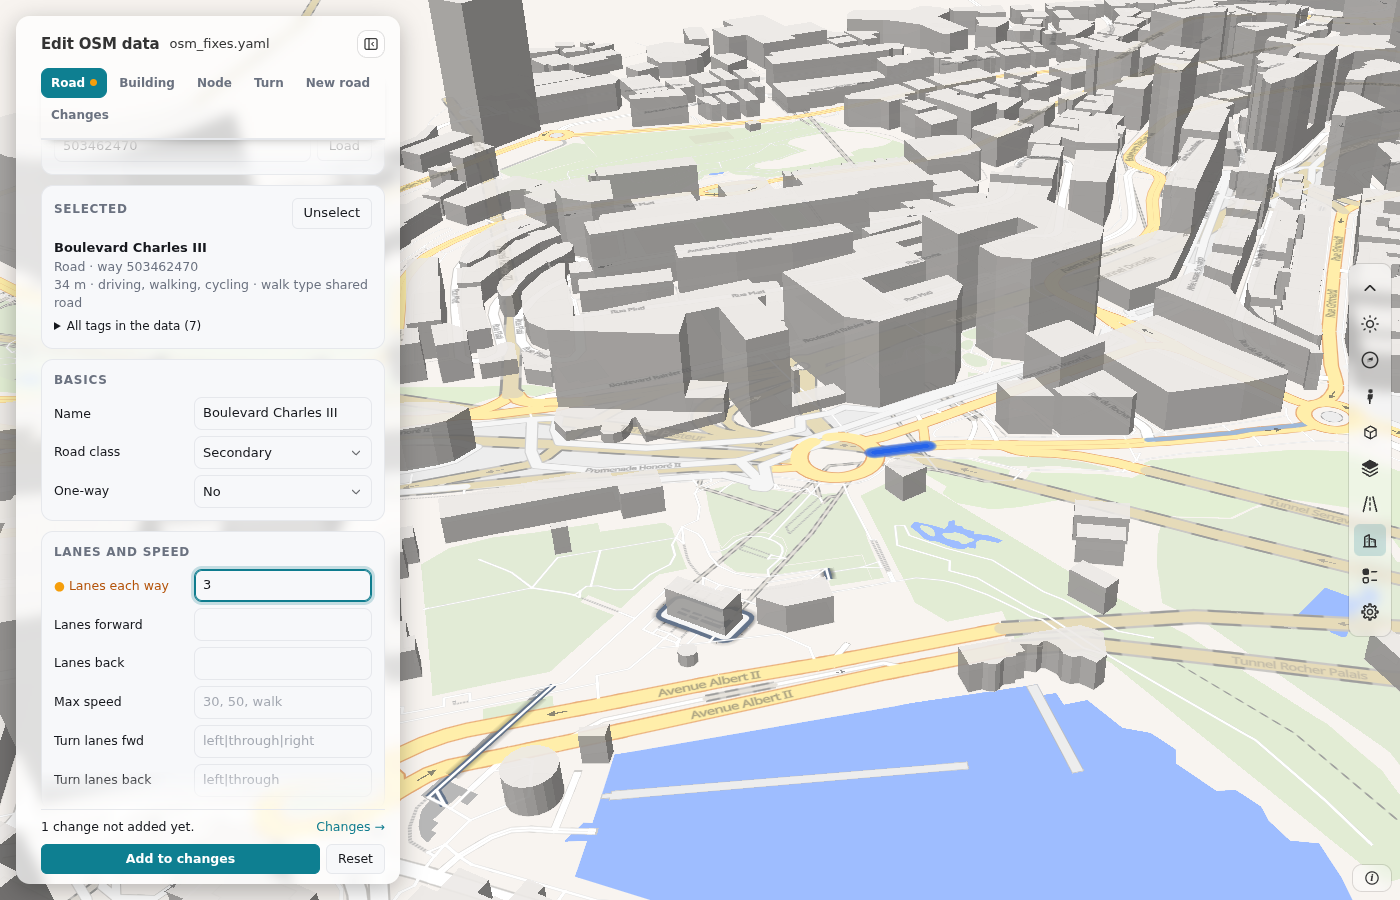
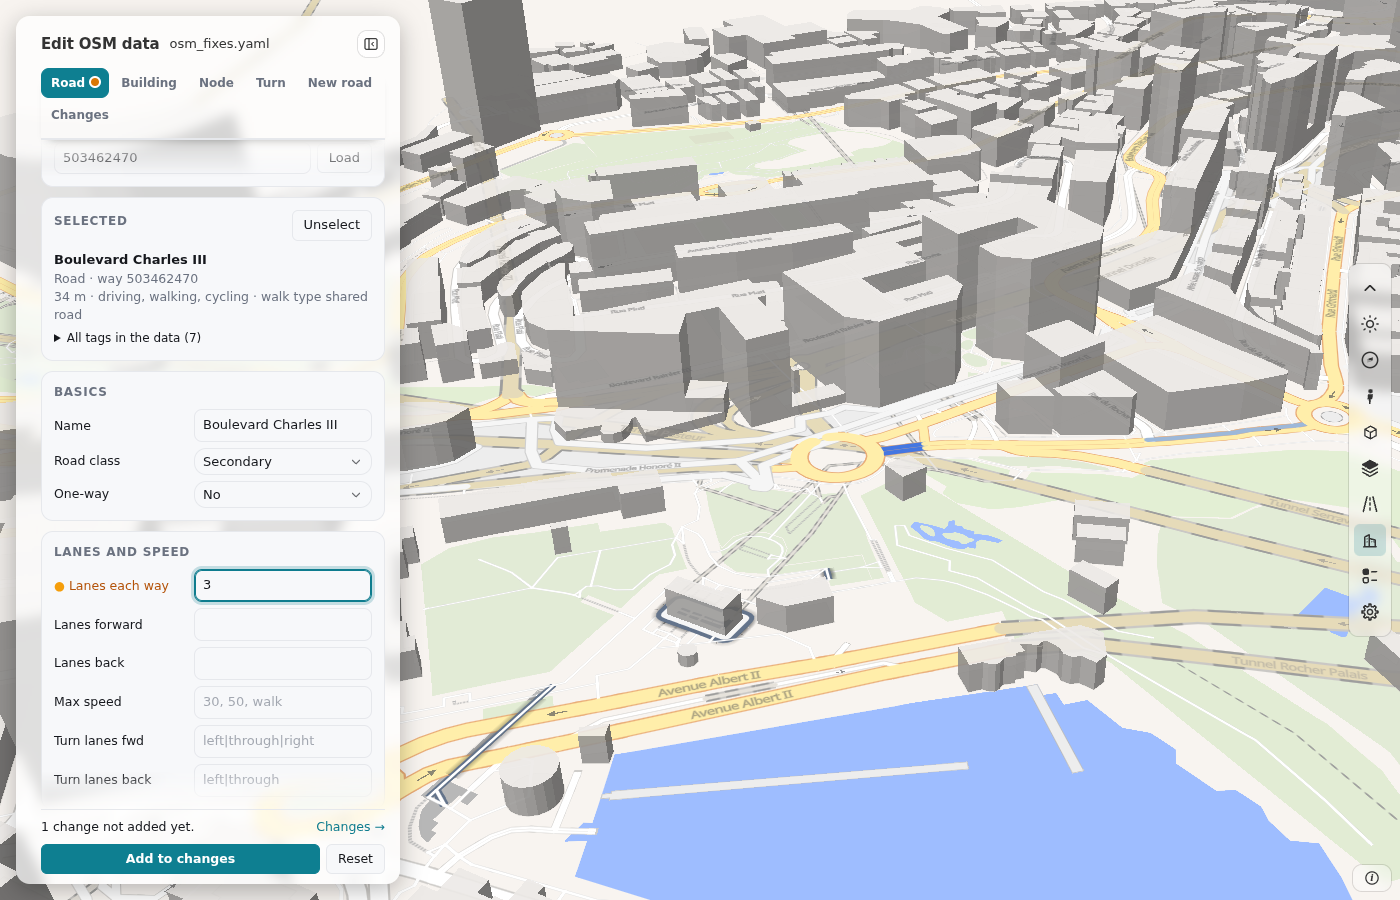
Fixes editor: roadstyle's own parts in place of the editor's CSS
roadstyle main has the parts that the editor drew itself. The editor uses them
and its copies are deleted:

- the count of changes on the tab: rs-badge (.badge went)
- the "not saved" dot on a tab: rs-unsaved (.dot went)
- the line under a field: rs-field-msg, warn for a warning (.gerr went); the
  red edge of a field comes from aria-invalid (.invalid went)
- the border of a select box in a frame, and a disabled button: roadstyle's
  own rules (the .rs-sel-btn and button:disabled rules went)

The badge and the dot have their own display, so `hidden` does not hide them:
the dot is in the tab while it is needed, and the badge class is on while there
is a number. An empty message line hides itself.

What stays in fixes_panel.css is layout and the editor's own content (the place
of a message in a form, the rows of walls, doors, turns and changes, the boxes of
a pane). The look changes a little: the select boxes are roadstyle's height and
radius, the badge is roadstyle's soft accent, and a message has its icon. The
four guide pictures are taken again. docs/design/fixes_editor_guards.md has the
table of what moved.

diff --git a/web/fixes_editor/fixes_panel.js b/web/fixes_editor/fixes_panel.js
@@ -244,8 +244,8 @@ export async function initFixesPanel(ctx) {
   // an element of the panel (the frame is in the page only while it is open)
   const $ = (id) => root.querySelector("#" + CSS.escape(id));
   fr.body.innerHTML = MARKUP(ctx.changesNote ? " " + ctx.changesNote : "");
-  // the amber dot of a tab with edits that are not in the changes, and the number of changes on the tab Changes
-  for (const t of TABS) $(`fix-tab-${t}`).insertAdjacentHTML("beforeend", t === "changes" ? ' <span id="fix-n" class="badge"></span>' : '<i class="dot" hidden title="Not added to the changes yet"></i>');
+  // the number of changes on the tab Changes: roadstyle's rs-badge (the class is on while there is a number: the badge has its own display, so `hidden` does not hide it)
+  $("fix-tab-changes").insertAdjacentHTML("beforeend", '<span id="fix-n"></span>');
   fr.addEventListener("tab", (e) => setTab(e.detail.tab));
   root.addEventListener("click", (e) => { if (e.target.closest('a[href="#"]')) e.preventDefault(); });     // the links of the panel act in the panel
   // the bars of the panes go to the frame's bar: they stay in view and never cover the form (Kaveh, 2026-11-06). A bar shows while its place in its pane
@@ -367,7 +367,7 @@ export async function initFixesPanel(ctx) {
   // the reason under a field that a guard closed or narrowed; `gone`: the fields that a guard cleared, { key: [old value, reason] }
   const guardNote = (f, g, gone = cleared) => (gone[f.key] ? `Cleared "${gone[f.key][0]}": ${gone[f.key][1]}` : g?.off.has(f.key) ? g.off.get(f.key) : g?.allow.has(f.key) && f.type === "choice" ? g.allow.get(f.key).reason : "");
   // the line under a field for its error or its warning (paintChecks fills it)
-  const errLine = (key) => `<p class="why gerr" data-err="${esc(key)}" role="alert" hidden></p>`;
+  const errLine = (key) => `<p class="rs-field-msg" data-err="${esc(key)}" role="alert"></p>`;      // roadstyle's line under a field; an empty one does not show
   let cleared = {};                            // the fields of the form that a guard cleared after a choice (guardNote)
   let seen = {};                               // the values of the form when it was drawn: the state before a choice (clearClosed)
   let sureMissing = false;                     // the person pushed Add once for an ID that is not in the area: the second push adds it
@@ -415,9 +415,9 @@ export async function initFixesPanel(ctx) {
     const list = problems(), by = new Map(list.map((p) => [p.key, p]));
     for (const el of $("fix-form").querySelectorAll("[data-err]")) {
       const p = by.get(el.dataset.err);
-      el.hidden = !p; el.textContent = p?.text ?? ""; el.classList.toggle("warn", !!p && !p.block);
+      el.textContent = p?.text ?? ""; el.classList.toggle("warn", !!p && !p.block);
       const input = $(fid(el.dataset.err)) ?? el.previousElementSibling?.querySelector?.("input");
-      if (input) { input.classList.toggle("invalid", !!p?.block); input.setAttribute("aria-invalid", p?.block ? "true" : "false"); }
+      if (input) input.setAttribute("aria-invalid", p?.block ? "true" : "false");           // roadstyle draws the red edge from aria-invalid
     }
     return list;
   }
@@ -845,9 +845,13 @@ export async function initFixesPanel(ctx) {
     paintDots();
     if (open()) { drawSelected(zoom, { turn: name === "turns" && !$("fix-turnsec").hidden ? { via: $("fix-via").value } : null }); drawFaces(); drawNodes(); drawTurnRoads(); drawDoors(); }
   }
-  // an amber dot on the tab that has edits that are not in the changes yet
+  // roadstyle's "not saved" dot (rs-unsaved) on the tab that has edits that are not in the changes yet: the dot is in the tab while it is needed
   function paintDots() {
-    const on = (t, v) => { $(`fix-tab-${t}`).querySelector(".dot").hidden = !v; };
+    const on = (t, v) => {
+      const tab = $(`fix-tab-${t}`), dot = tab.querySelector(".rs-unsaved");
+      if (v && !dot) tab.insertAdjacentHTML("beforeend", '<span class="rs-unsaved" role="img" aria-label="Not saved" title="Not added to the changes yet"></span>');
+      else if (!v && dot) dot.remove();
+    };
     for (const k of EDIT) on(k, dirty(k) > 0);
     on("turns", turnDiffs().length > 0);
     on("new", !!draw && draw.pts.length > 0);
@@ -1450,8 +1454,8 @@ export async function initFixesPanel(ctx) {
     const bad = new Map(newProblems());
     for (const el of $("fix-newform").querySelectorAll("[data-err]")) {
       const x = bad.get(el.dataset.err);
-      el.hidden = !x; el.textContent = x ?? "";
-      $(`fixn-${el.dataset.err}`)?.classList.toggle("invalid", !!x);
+      el.textContent = x ?? "";
+      $(`fixn-${el.dataset.err}`)?.setAttribute("aria-invalid", x ? "true" : "false");
     }
     drawn();
   }
@@ -1697,7 +1701,7 @@ export async function initFixesPanel(ctx) {
   // ---- the numbers on the page
   function sync() {
     const { turns, faces, newWays } = F.counts(doc), n = F.objects(doc).length + turns + faces + newWays;
-    $("fix-n").textContent = n ? String(n) : "";
+    $("fix-n").textContent = n ? String(n) : ""; $("fix-n").className = n ? "rs-badge" : "";
     for (const e of root.querySelectorAll("[data-n]")) e.textContent = n ? ` (${n})` : "";
     $("fix-apply-n").textContent = n ? ` (${plural(n, "change")})` : "";
     paintBar();

diff --git a/web/fixes_editor/fixes_panel.css b/web/fixes_editor/fixes_panel.css
@@ -11,10 +11,6 @@
 #fix-panel .row { display: flex; gap: 6px; align-items: center; flex-wrap: wrap; margin-top: 10px; }
 #fix-panel .grid2 { display: grid; grid-template-columns: auto 1fr; gap: 6px 10px; align-items: center; }
 #fix-panel code { font-size: 11.5px; overflow-wrap: anywhere; }      /* a long path breaks; a short name goes to the next line whole */
-/* the tabs: the amber dot of edits that are not in the changes, and the number of changes */
-#fix-panel .rs-tab .dot { display: inline-block; width: 7px; height: 7px; margin-left: 5px; border-radius: 50%; background: #f59e0b; vertical-align: 1px; }
-#fix-panel .badge { display: inline-block; min-width: 18px; padding: 0 5px; border-radius: 99px; background: #f59e0b; color: #1f1300; font-size: 11px; line-height: 18px; font-weight: 600; }
-#fix-panel .badge:empty { display: none; }
 /* a box of a pane (roadstyle's rs-sec-box has its look only in a card of the panel, not in a frame) */
 #fix-panel .fsec { border: 1px solid var(--line); border-radius: 12px; padding: 12px; margin: 0 0 10px; background: var(--card); }
 #fix-panel .fsec-hd { display: flex; justify-content: space-between; align-items: center; gap: 8px; margin-bottom: 8px; }
@@ -91,18 +87,14 @@ html.rs-phone #fix-panel :is(.row, .wallbar) button { min-height: 44px; }      /
 #fix-panel :is(.wallrow, .doorrow, .turn).sel { background: color-mix(in srgb, var(--accent) 26%, var(--bg)); outline: 2px solid var(--accent); outline-offset: -1px; }
 #fix-panel :is(.wallrow, .doorrow, .turn):focus-visible { outline: 2px solid var(--accent); }
 #fix-panel .wallrow .rs-sel { width: 100%; max-width: none; }
-/* roadstyle gives a select box its border only in a card of the panel (.sb-sec[data-rs-card]); the boxes of the editor are .fsec, so the editor
-   gives the border, the same as its text fields */
-#fix-panel .rs-sel-btn { border: 1px solid var(--line); border-radius: 8px; padding: 5px 8px; min-height: 33px; }
 #fix-panel .gwhy { grid-column: 1 / -1; margin: -2px 0 4px; }
-/* the checks of a form (docs/design/fixes_editor_guards.md): an error is red, with a red edge on its field; a warning is amber and does not block */
-#fix-panel .gerr { grid-column: 1 / -1; margin: -2px 0 4px; color: var(--fix-bad); }
-#fix-panel .gerr.warn, #fix-panel .warn { color: #b45309; }
+/* the checks of a form (docs/design/fixes_editor_guards.md): the line under a field is roadstyle's rs-field-msg (red, amber with .warn, and the field has
+   a red edge with aria-invalid); here only its place in the grid of a form */
+#fix-panel .rs-field-msg { grid-column: 1 / -1; margin: -2px 0 4px; }
+#fix-panel .warn { color: #b45309; }
 #fix-panel .why.bad, #fix-panel #fix-state.bad { color: var(--fix-bad); }
-#fix-panel :is(input, select).invalid { border-color: var(--fix-bad); box-shadow: 0 0 0 1px var(--fix-bad); }
-#fix-panel .other .gerr { margin: 0; }
+#fix-panel .other .rs-field-msg { margin: 0; }
 #fix-panel input:disabled { opacity: 0.55; cursor: not-allowed; }
-#fix-panel button:disabled { opacity: 0.45; cursor: not-allowed; }      /* a button that cannot act now: roadstyle's sb-primary looks the same with and without it */
 #fix-panel .sw { display: inline-block; width: 11px; height: 11px; border-radius: 3px; margin-right: 6px; vertical-align: -1px; }   /* the color of the item on the map */
 #fix-panel .legend { display: inline-flex; align-items: center; gap: 3px; margin-left: 8px; font-size: 11.5px; color: var(--mut); }
 #fix-panel .legend i { display: inline-block; width: 10px; height: 10px; border-radius: 2px; }

diff --git a/docs/design/fixes_editor_guards.md b/docs/design/fixes_editor_guards.md
@@ -192,5 +192,18 @@ is on `origin/main`, the pin moves to the merge commit.
   draws its own. The two workarounds are gone: the `rsDeselect` after each pick, and the feature state of a building.
 - **The red button and the confirm dialog.** **Delete all changes** has `sb-danger` and asks with `rs.confirm`, with roadstyle's red OK button.
 
-Still drawn by `fixes_panel.css`: the parts of the table above that PR 69 also has (the select box edge, the disabled look, the field message, the
-badge, the unsaved dot, the rows). They move to roadstyle's own classes in a later change.
+**Moved to roadstyle's own classes (2026-11-07):** the editor's CSS for these parts is deleted, and the editor uses roadstyle's.
+
+| Part | Now | The editor's CSS that went |
+|---|---|---|
+| The count of changes on the tab | `rs-badge` (the class is on while there is a number) | `.badge` |
+| The "not saved" dot on a tab | `rs-unsaved` (the dot is in the tab while it is needed) | `.dot` |
+| The line under a field, error or warning | `rs-field-msg` (an empty line does not show), `warn` for a warning | `.gerr`, `.warn` of the lines |
+| The red edge of a field with an error | `aria-invalid="true"` on the field | `.invalid` |
+| The border of a select box in a frame | roadstyle's `#sb .rs-frame .rs-sel-btn` | the `.rs-sel-btn` rule |
+| A disabled button | roadstyle's `:where(#sb, .rs-frame, #rs-dock) button:disabled` | the `button:disabled` rule |
+
+What stays in `fixes_panel.css` is layout and the content of the editor: the place of a message in the grid of a form, the rows of the walls, the doors, the
+turns and the changes, the boxes of a pane (`fsec`) and the legends. The rows are not moved to `rs-rows`: each has its own columns and its own click.
+The look changed a little: the select boxes are roadstyle's height and radius (about 5 px shorter), the badge is roadstyle's soft accent, and a message has
+roadstyle's icon.
